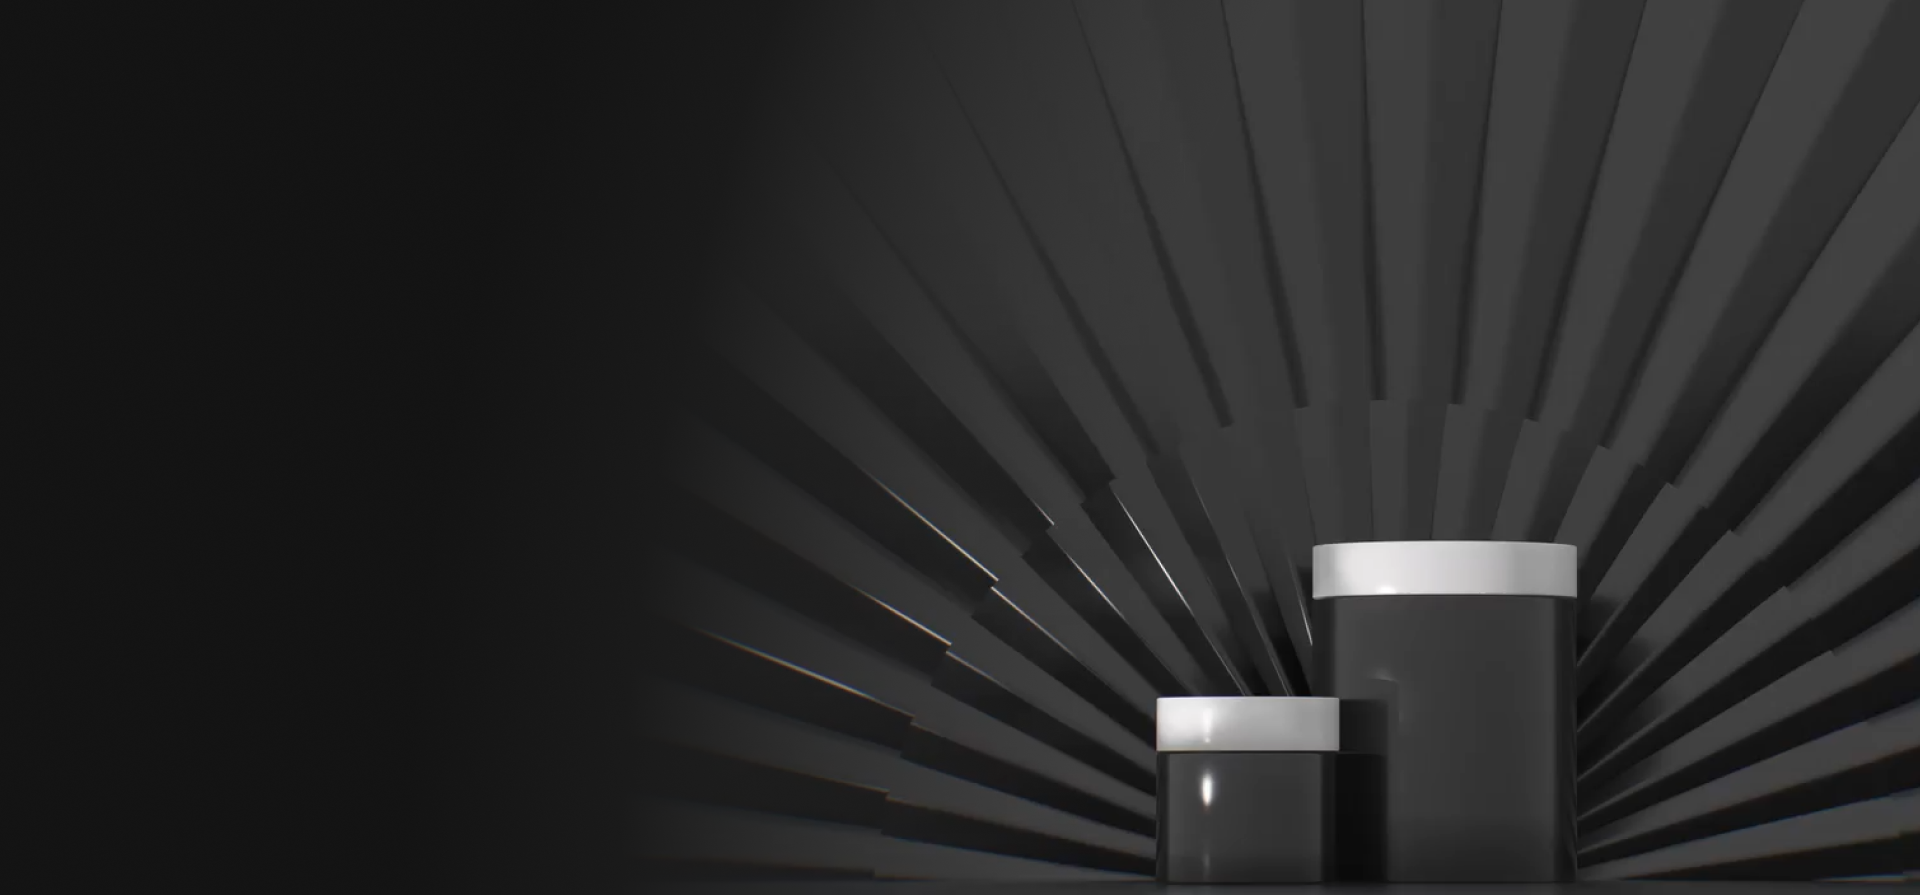
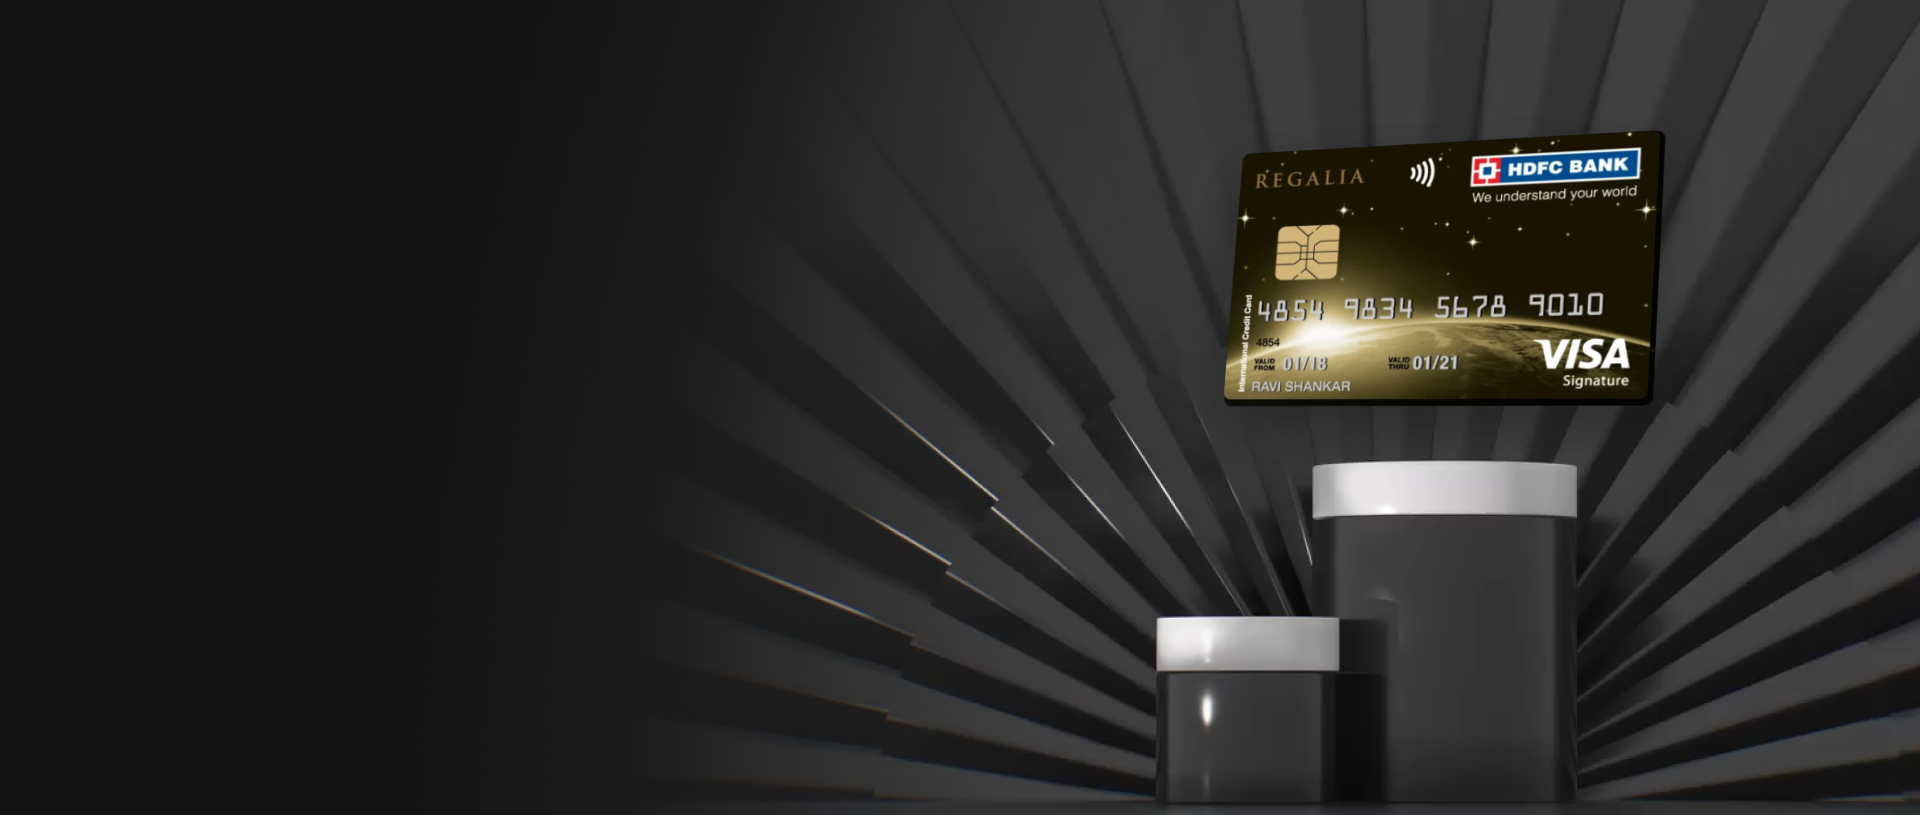
chore: updated some low quality images and minor chnages

Changed region(s): [[0.375, 0.1534, 1.0, 0.9509], [0.4375, 0.8589, 0.4688, 0.8896]]

diff --git a/src/presentation/bankkaro/keyProducts/KeyProducts.scss b/src/presentation/bankkaro/keyProducts/KeyProducts.scss
@@ -1,23 +1,43 @@
-#menuItem.menuItem-container1 {
+#keyProducts.keyProducts-container1 {
     display: flex;
+    width: 100%;
+    min-height: 56.2rem;
     flex-direction: row;
     //background-color: aqua;
-    .menuItem-text1 {
-        font-size: 2rem;
-        line-height: 2rem;
-        font-weight: 600;
-        -webkit-user-select: none;
-        -ms-user-select: none;
-        user-select: none;
+    justify-content: space-evenly;
+    overflow: visible;
+    margin-top: 8rem;
+    //z-index: 4;
+    
+    .keyProducts-container2 {
+        display: flex;
+        flex-direction: column;
+        justify-content: center;
+        align-items: center;
+        height: max-content;
         align-self: center;
-        color: rgba(255, 255, 255, 1);
-        //background-color: red;
-    }
-    .menuItem-container2 {
-        width: 2.4rem;
-        height: 2.4rem;
-        align-self: center;
-        margin-left: 0.4rem;
-        margin-top: -0.5rem;
+        position: relative;
+        //background-color: pink;
+        .keyProducts-container3 {
+            display: flex;
+            width: 38.6rem;
+            height: 56.2rem;
+            //background-color: red;
+        }
+        .keyProducts-text1 {
+            font-size: 6.4rem;
+            line-height: 7rem;
+            font-weight: 200;
+            max-width: 24rem;
+            -webkit-user-select: none;
+            -ms-user-select: none;
+            user-select: none;
+            align-self: center;
+            color: rgba(255, 255, 255, 1);
+            text-align: center;
+            position: absolute;
+            z-index: 20;
+            top: 12rem;
+        }
     }
 }

diff --git a/src/presentation/bankkaro/keyProducts/KeyProducts.tsx b/src/presentation/bankkaro/keyProducts/KeyProducts.tsx
@@ -1,21 +1,33 @@
 import React from 'react';
-import './BKHome.scss';
+import './KeyProducts.scss';
+import { KeyPointItemBean } from '../../bean/KeyPointItemBean';
+import { KeyProductItemBean } from '../../bean/KeyProductItemBean';
 
 
 interface Props {
     style?: React.CSSProperties;
+    keyProducts: Array<KeyProductItemBean>
 }
 
-const BKHome = (props: Props) => {
-    const { style } = props;
+const KeyProducts = (props: Props) => {
+    const { style, keyProducts } = props;
 
     return (
-        <div id={'bkHome'} className={'bkHome-container1'} style={style}>
-           
+        <div id={'keyProducts'} className={'keyProducts-container1'} style={style}>
+           {
+            keyProducts.map((item)=>{
+                return (
+                    <div key={item.id} className={'keyProducts-container2'}>
+                        <img className={'keyProducts-container3'} src={item.image}/>
+                        <p className={'keyProducts-text1'}>{item.title}</p>
+                    </div>
+                )
+            })
+           }
         </div>
     );
 };
 
-export default BKHome;
+export default KeyProducts;
 
 const styles: Record<string, React.CSSProperties> = {};

diff --git a/src/presentation/bankkaro/keyPoints/KeyPoints.scss b/src/presentation/bankkaro/keyPoints/KeyPoints.scss
@@ -6,7 +6,7 @@
     //background-color: aqua;
     justify-content: space-evenly;
     overflow: visible;
-    margin-top: -7rem;
+    margin-top: -5.6rem;
     z-index: 4;
     
     .keyPoints-container2 {
@@ -22,12 +22,12 @@
             display: flex;
             width: 20rem;
             height: 20rem;
-            //background-color: aqua;
+            //background-color: pink;
         }
         .keyPoints-text1 {
             font-size: 4.4rem;
             line-height: 5.2rem;
-            font-weight: 700;
+            font-weight: 600;
             max-width: 36rem;
             -webkit-user-select: none;
             -ms-user-select: none;
@@ -35,6 +35,7 @@
             align-self: center;
             color: rgba(255, 255, 255, 1);
             text-align: center;
+            margin-top: 2rem;
         }
         .keyPoints-text2 {
             font-size: 2.2rem;
@@ -48,6 +49,7 @@
             color: rgba(177, 177, 177, 1);
             text-align: center;
             font-family: 'Poppins', sans-serif;
+            margin-top: 1.6rem;
         }
     }
 }

diff --git a/src/presentation/bankkaro/bkHome/BKHome.tsx b/src/presentation/bankkaro/bkHome/BKHome.tsx
@@ -16,8 +16,7 @@ const BKHome = (props: Props) => {
         <div id={'bkHome'} className={'bkHome-container1'} style={style}>
            <div className={'bkHome-container2'}>
             <div className={'bkHome-container3'}>
-                <img className={'bkHome-container4'} src={images.img_main_backdrop_2}/>
-                <img className={'bkHome-container5'} src={images.img_cc}/>
+                <img className={'bkHome-container4'} src={images.img_main_backdrop}/>
                 <div className={'bkHome-container6'}>
                     <div className={'bkHome-container7'}>
                         <span className={'bkHome-text1'}>{strings.We_Find}</span>

diff --git a/src/presentation/bankkaro/BankKaro.tsx b/src/presentation/bankkaro/BankKaro.tsx
@@ -4,6 +4,7 @@ import BKHeader from './header/BKHeader';
 import { bankkaroData } from '../../data/data';
 import BKHome from './bkHome/BKHome';
 import KeyPoints from './keyPoints/KeyPoints';
+import KeyProducts from './keyProducts/KeyProducts';
 
 const BankKaro = () => {
     return (
@@ -12,6 +13,7 @@ const BankKaro = () => {
             <div className="bankkaro-container2">
                 <BKHome/>
                 <KeyPoints keyPoints={bankkaroData.keyPoints}/>
+                <KeyProducts keyProducts={bankkaroData.keyProducts}/>
             </div>
         </div>
     );

diff --git a/src/resources/images/images.ts b/src/resources/images/images.ts
@@ -2,7 +2,6 @@ export default {
     img_user: '/images/img_user.png',
     ic_chevron_down: '/images/ic_chevron_down.png',
     img_main_backdrop: '/images/img_main_backdrop.png',
-    img_main_backdrop_2: '/images/img_main_backdrop_2.png',
     img_cc: '/images/img_cc.png',
     img_chart: '/images/img_chart.png',
     img_percent: '/images/img_percent.png',

diff --git a/src/data/data.ts b/src/data/data.ts
@@ -61,7 +61,7 @@ const bankkaroData = {
         {
             id: '2',
             image: images.img_pf_2,
-            title:'Beat My Card',
+            title:'Beat Cardows',
         },
         {
             id: '3',
